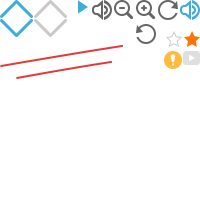
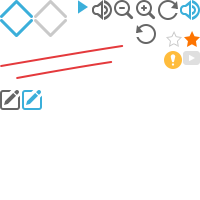
Signed-off-by: duxinlixiaoxue <1207931454@qq.com>

Changed region(s): [[0.0, 0.45, 0.21, 0.57]]

diff --git a/source/widget/UserHome.homework/homework.js b/source/widget/UserHome.homework/homework.js
@@ -502,7 +502,8 @@ $.fn.imagePage = function(params){
 					leftRotate:null,//向左旋转按钮
 				    rightRotate:null,//向右旋转按钮
 					min_picnum:null,//小图显示数量
-					isZoom:true//是否存在旋转缩放
+					isZoom:true,//是否存在旋转缩放
+					lookEdit:null//查看改正中图片按钮
 				}, params || {});
 	var _this = this;
 	var picsmall_num = $(this).find(params.smallPic).find('ul li').length;
@@ -535,6 +536,7 @@ $.fn.imagePage = function(params){
 	    show(tpqhnum);
 		minshow(tpqhnum);
 		audioPage(tpqhnum);
+		lookEditImg(tpqhnum);
     }).eq(params.order).trigger("click");
 
     //大图切换过程
@@ -569,36 +571,130 @@ $.fn.imagePage = function(params){
 		  $(_this).find('.homework-Feedback-describe').hide();
 		  $(_this).find('.ImageTransformJs').show();
 		  _src = $(_this).find(params.bigPic).find('li').eq(tpqhnum).find('img').attr('src');
-
-		  //判断是否存在缩放功能
-		  if( params.isZoom ){
-               _ImageTransform.load(_src);
-		  }else{
-		  	  $(_this).find(params.bigPic).find('.ImageTransformJs').remove();
-		  	  var _imgHtml = '<img style="position: absolute; border: 0px none; padding: 0px; margin: 0px;" src="'+_src+'" class="ImageTransformJs" />';
-		  	  $(_this).find(params.bigPic).append(_imgHtml);
-
-		  	  /*
-			   *图片缩放居中
-			   */
-			  var maxWidth =  $(_this).find(params.bigPic).width();
-			  var maxHeight = $(_this).find(params.bigPic).height();
-			  var imgWidth = $(_this).find(params.bigPic).find('.ImageTransformJs').width();
-			  var imgHeight = $(_this).find(params.bigPic).find('.ImageTransformJs').height();
-
-			  var rate=(maxHeight/imgHeight>maxWidth/imgWidth?maxWidth/imgWidth:maxHeight/imgHeight);
-              $(_this).find(params.bigPic).find('.ImageTransformJs').attr('_imgW',imgWidth).attr('_imgH',imgHeight);
-
-			  $(_this).find(params.bigPic).find('.ImageTransformJs').css({
-			  	  'width':imgWidth*rate,
-			  	  'height':imgHeight*rate,
-			  	  'left': ( maxWidth - imgWidth*rate ) / 2 + "px",
-				  'top': ( maxHeight - imgHeight*rate ) / 2 + "px"
-			  })
-		  }
+		  bigShow(_src);
 		}
 		$(_this).find(params.smallPic).find('li').eq(tpqhnum).addClass('homework-current').siblings(this).removeClass("homework-current");
 	};
+
+	//大图图片显示的效果
+	function bigShow(url){
+		//判断是否存在缩放功能
+		if( params.isZoom ){
+		   _ImageTransform.load(url);
+		}else{
+			  $(_this).find(params.bigPic).find('.ImageTransformJs').remove();
+			  var _imgHtml = '<img style="position: absolute; border: 0px none; padding: 0px; margin: 0px;" src="'+url+'" class="ImageTransformJs" />';
+			  $(_this).find(params.bigPic).append(_imgHtml);
+
+			  /*
+		   *图片缩放居中
+		   */
+		  var maxWidth =  $(_this).find(params.bigPic).width();
+		  var maxHeight = $(_this).find(params.bigPic).height();
+		  var imgWidth = $(_this).find(params.bigPic).find('.ImageTransformJs').width();
+		  var imgHeight = $(_this).find(params.bigPic).find('.ImageTransformJs').height();
+
+		  var rate=(maxHeight/imgHeight>maxWidth/imgWidth?maxWidth/imgWidth:maxHeight/imgHeight);
+		  $(_this).find(params.bigPic).find('.ImageTransformJs').attr('_imgW',imgWidth).attr('_imgH',imgHeight);
+
+		  $(_this).find(params.bigPic).find('.ImageTransformJs').css({
+		  	  'width':imgWidth*rate,
+		  	  'height':imgHeight*rate,
+		  	  'left': ( maxWidth - imgWidth*rate ) / 2 + "px",
+			  'top': ( maxHeight - imgHeight*rate ) / 2 + "px"
+		  })
+		}
+	}
+
+	//查看订正过程中的图片效果
+	function lookEditImg(tpqhnum){
+        //查看是否有订正图片效果
+ 		if( $(_this).find(params.lookEdit) ){
+		    //查看是否存在订正图片
+		    var dataUrl = $(_this).find(params.smallPic).find('li').eq(tpqhnum).data('url');
+		    //先清空要创建的html上一张下一张按钮
+		    $(_this).find(params.bigPic).find('.homework-lookEdit-btn').remove();
+		    //改正过程中的图片存在查看按钮为可编辑，反之相反
+		    if(dataUrl){
+		    	$(_this).find(params.lookEdit).addClass('homework-edit-btn');
+                
+                //滑过提示弹层效果
+		    	$(_this).closest('.homework-wrapper-container').find('.lookEditImg-popover').remove();
+	    		var html = ['<div role="tooltip" class="popover fade top in lookEditImg-popover">',
+		    		         '<div class="arrow" style="left: 50%;"></div>',
+				    		 '<div class="popover-content">',
+				    		    '<div class="lookEditImg-tips-box">点我查看订正过程中的图片</div>',
+				    		 '</div>',
+				    	  '</div>']
+
+	    		$(_this).closest('.homework-wrapper-container').append(html.join(''));
+
+		    	//滑过提示弹层效果
+		    	$(_this).off('mouseover ','.homework-edit-btn').on('mouseover','.homework-edit-btn',function(){
+		    		var lookEditImg_popover_w = $(_this).closest('.homework-wrapper-container').find('.lookEditImg-popover').width();
+		    		var container_w = $(_this).closest('.homework-wrapper-container').width();
+                    var popover_left = container_w -lookEditImg_popover_w/2 - 30 - 54/2 ;
+                    if(popover_left<0){
+                       popover_left = 0;
+                    }
+                    $(_this).closest('.homework-wrapper-container').find('.lookEditImg-popover').css('left',popover_left);
+		    		$(_this).closest('.homework-wrapper-container').find('.lookEditImg-popover').show();
+		    	})
+
+		    	$(_this).off('mouseout ','.homework-edit-btn').on('mouseout','.homework-edit-btn',function(){
+		    		$(_this).closest('.homework-wrapper-container').find('.lookEditImg-popover').hide();
+		    	})
+		        //点击可编辑查看按钮
+		        $(_this).off('click','.homework-edit-btn').on('click','.homework-edit-btn',function(){
+		        	var lookEditNum = 0;
+		            var arr_dataUrl = dataUrl.split(',');
+		            var dataUrl_Num = arr_dataUrl.length;
+		            //点击查看订正图片按钮，默认显示第一张图片
+		            var imgUrl = arr_dataUrl[0];
+		            bigShow(imgUrl);
+		            //显示上一张下一张点击按钮
+		            $(_this).find(params.bigPic).find('.homework-lookEdit-btn').remove();
+		            var lookEdit_html = '';
+		            lookEdit_html += '<a href="javascript:void(0)" class="homework-lookEdit-btn homework-lookEdit-prev-btn"></a><a href="javascript:void(0)" class="homework-lookEdit-btn homework-lookEdit-next-btn"></a>';
+		            $(_this).find(params.bigPic).append(lookEdit_html);
+		            //判断上一张下一张是否可点击
+		            if(dataUrl_Num>1){
+		               $(_this).find(params.bigPic).find('.homework-lookEdit-next-btn').addClass('homework-lookEdit-next-active-btn');
+		                
+		                //下一张点击按钮
+		                $(_this).find(params.bigPic).find('.homework-lookEdit-next-btn').click(function(){
+		                	  if(lookEditNum == dataUrl_Num-1){
+								  lookEditNum = dataUrl_Num-1;
+								  return false;
+							  };
+							  lookEditNum++;
+							  if(lookEditNum == dataUrl_Num-1){
+							  	$(_this).find(params.bigPic).find('.homework-lookEdit-next-btn').removeClass('homework-lookEdit-next-active-btn');
+							  }
+							  $(_this).find(params.bigPic).find('.homework-lookEdit-prev-btn').addClass('homework-lookEdit-prev-active-btn');
+							  bigShow(arr_dataUrl[lookEditNum]);
+		                })
+		                
+		                //上一张点击按钮
+		                $(_this).find(params.bigPic).find('.homework-lookEdit-prev-btn').click(function(){
+		                	  if(lookEditNum == 0){
+								  lookEditNum = 0;
+								  return false;
+							  };
+							  lookEditNum--;
+							  if(lookEditNum == 0){
+							  	$(_this).find(params.bigPic).find('.homework-lookEdit-prev-btn').removeClass('homework-lookEdit-prev-active-btn');
+							  }
+							  $(_this).find(params.bigPic).find('.homework-lookEdit-next-btn').addClass('homework-lookEdit-next-active-btn');
+							  bigShow(arr_dataUrl[lookEditNum]);
+		                })
+		            }
+		        })
+			}else{
+			    $(_this).find(params.lookEdit).removeClass('homework-edit-btn');
+		    }
+		}
+	}
 
 	//小图切换过程
 	function minshow(tpqhnum){
@@ -667,6 +763,7 @@ $.fn.imagePage = function(params){
 			show(tpqhnum);
 			minshow(tpqhnum);
 			audioPage(tpqhnum);
+			lookEditImg(tpqhnum);
 		}else{
 			return false;
 		}		
@@ -681,6 +778,7 @@ $.fn.imagePage = function(params){
 			minshow(tpqhnum)
 			show(tpqhnum);
 			audioPage(tpqhnum);
+			lookEditImg(tpqhnum);
 		}else{
 			return false;
 		}	
@@ -709,7 +807,7 @@ $.fn.imagePage = function(params){
 		$(this).find(params.rightRotate).click(function(){ 
 			_ImageTransform.right(); 
 		})
-	}	
+	}
 }
 
 

diff --git a/source/widget/UserHome.homework/homework.less b/source/widget/UserHome.homework/homework.less
@@ -137,7 +137,7 @@
          margin-top:20px; 
          .border-radius(6px); 
          display: block;
-         position: relative;
+         /* position: relative; */
     }
     .homework-image-area{
         width: 100%;
@@ -198,6 +198,26 @@
                         cursor: pointer;
                         text-align: center;
                         box-sizing: content-box;
+                        .homework-rightIcon{
+                            position: absolute;
+                            background: url("img/hm_right.png") no-repeat;
+                            width: 50px;
+                            height: 50px;
+                            right: 0px;
+                            top: 0px;
+                            display: inline-block;
+
+                        }
+                        .homework-markStatus{
+                            position: absolute;
+                            right: 6px;
+                            bottom: 0;
+                            text-align: right;
+                            .font-family("Microsoft YaHei");
+                            .font-size(14px);
+                            line-height: 30px;
+                            color: #fff;
+                        }
                         .homework-MaskLayer{
                             position: absolute;
                             left: 0;
@@ -295,6 +315,12 @@
                           }
                           &.homework-zoom-btn{
                              background-position: -136px 0;
+                          }
+                          &.homework-disable-edit-btn{
+                             background-position: -0px -90px;
+                             &.homework-edit-btn{
+                                 background-position: -22px -90px;
+                             }
                           }
                       }
                   }
@@ -790,3 +816,48 @@
 }
 
 
+/**查看订正过程中的图片效果style**/
+.homework-ImageTransform{
+  .homework-lookEdit-btn{
+     position: absolute;
+     top: 247px;
+     z-index: 99999;
+     cursor: pointer;
+     &.homework-lookEdit-prev-btn{
+        left: 0;
+        background: url('img/hm_left_disable_btn.png') no-repeat;
+        width: 40px;
+        height: 80px;
+        &.homework-lookEdit-prev-active-btn{
+            background: url('img/hm_left_btn.png') no-repeat;
+            width: 40px;
+            height: 80px;
+        }
+     }
+     &.homework-lookEdit-next-btn{
+        right: 0;
+        background: url('img/hm_right_disable_btn.png') no-repeat;
+        width: 40px;
+        height: 80px;
+        &.homework-lookEdit-next-active-btn{
+            background: url('img/hm_right_btn.png') no-repeat;
+            width: 40px;
+            height: 80px;
+        }
+     }
+  }
+}
+.lookEditImg-popover{
+  display:none;
+  top: 43px;
+  left: 880px;
+  max-width: 600px;
+  .lookEditImg-tips-box{
+      width: 200px;
+      .font-family("SimSun");
+      .font-size(14px);
+      line-height: 30px;
+      color: #333; 
+      text-align: center;
+  }
+}
